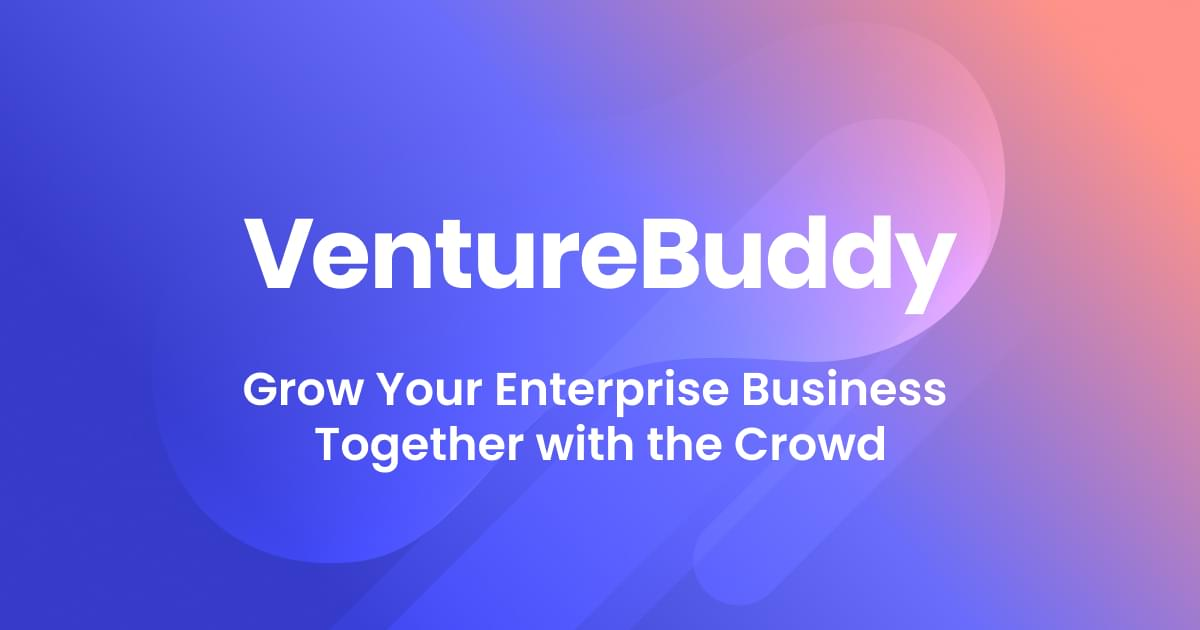
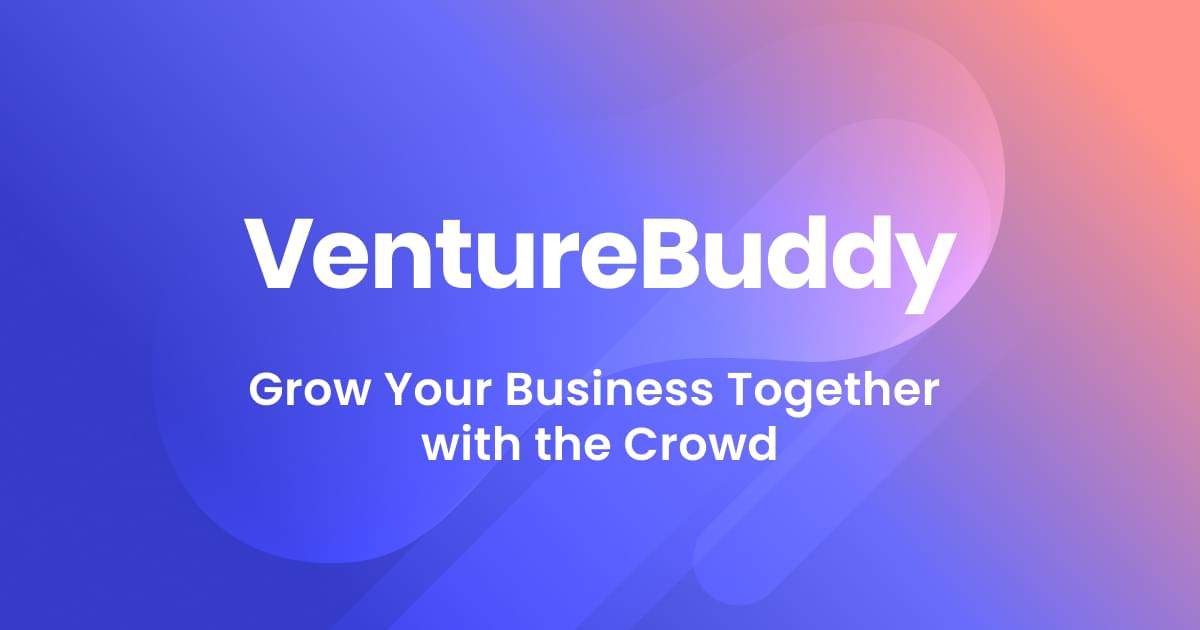
deploy: 63ab75bc61fe0ede98d611997ddee4c69f2a5e3b

Changed region(s): [[0.185, 0.573, 0.8017, 0.754]]

diff --git a/index.html b/index.html
@@ -25,13 +25,13 @@
                 class="webfont">
 
               <title>
-                VentureBuddy - Grow Your Enterprise Business Together with the Crowd
+                VentureBuddy - Grow Your Business Together with the Crowd
               </title>
               <meta name="description" content="We are building the technology for the future of Connectedness. A web platform born in Tokyo.">
               <!-- <link rel="canonical" href="https://venturebuddy.net"> -->
 
               <!-- Open Graph Tags -->
-              <meta property="og:title" content="VentureBuddy - Grow Your Enterprise Business Together with the Crowd" />
+              <meta property="og:title" content="VentureBuddy - Grow Your Business Together with the Crowd" />
               <meta property="og:type" content="website" />
               <meta property="og:image" content="https://venturebuddy.net/images/card-image-en.jpg" />
               <meta property="og:description" content="We are building the technology for the future of Connectedness. A web platform born in Tokyo." />
@@ -42,7 +42,7 @@
               <!-- Twitter Cards -->
               <meta name="twitter:card" content="summary_large_image">
               <meta name="twitter:site" content="@twitter_account">
-              <meta name="twitter:title" content="VentureBuddy - Grow Your Enterprise Business Together with the Crowd">
+              <meta name="twitter:title" content="VentureBuddy - Grow Your Business Together with the Crowd">
               <meta name="twitter:description" content="We are building the technology for the future of Connectedness. A web platform born in Tokyo.">
               <meta name="twitter:image" content="https://venturebuddy.net/images/card-image-en.jpg">
               <meta property="twitter:url" content="https://venturebuddy.net" />
@@ -128,7 +128,7 @@
                           </a>
                         </div>
                         <h1 class="text-white mb-4 mb-sm-5">
-                          Grow Your Enterprise Business Together with the Crowd
+                          Grow Your Business Together with the Crowd
                         </h1>
                         <p class="text-white">Making it easier for ventures to enter new markets</p>
                       </div>
